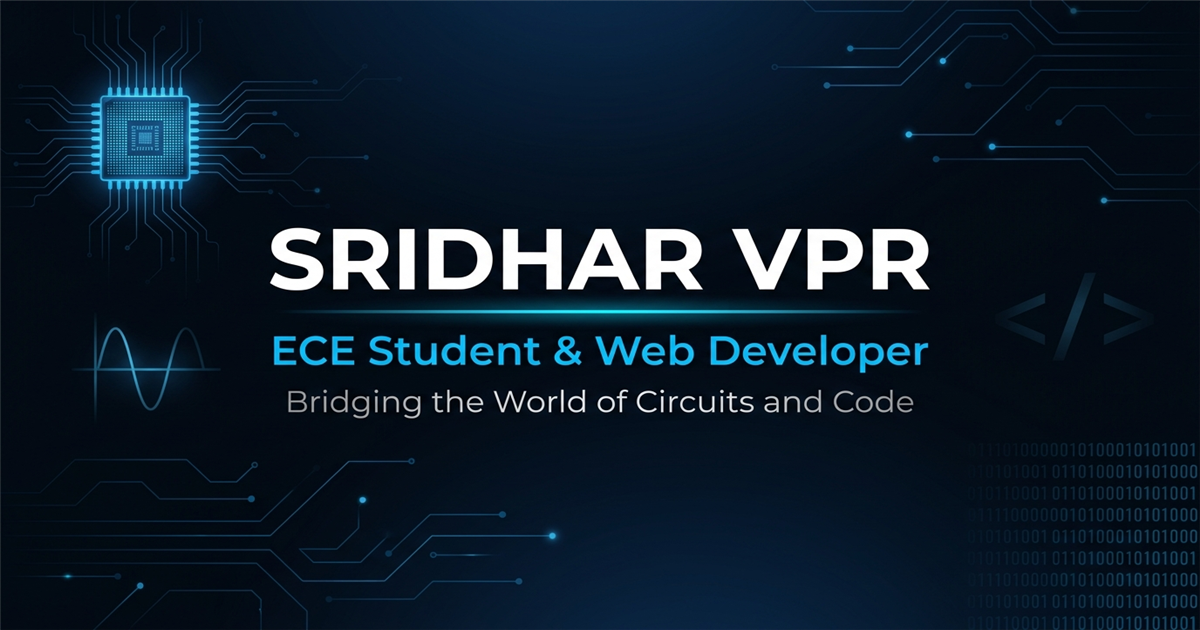
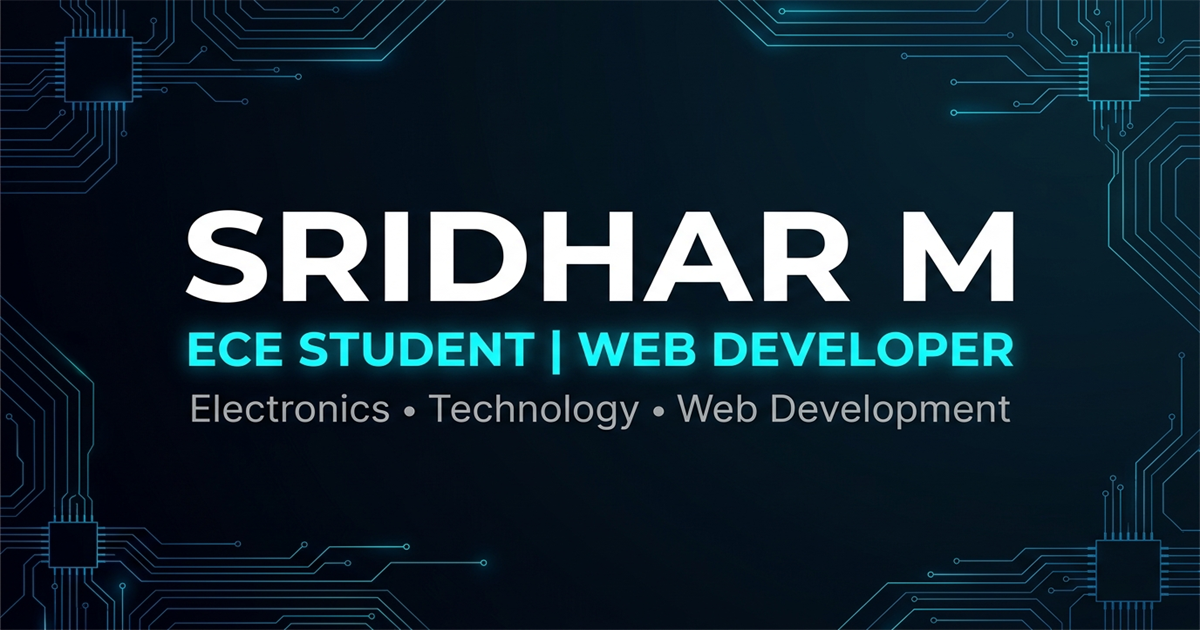
seo update

diff --git a/index.html b/index.html
@@ -5,37 +5,37 @@
     <meta name="viewport" content="width=device-width, initial-scale=1.0" />
 
     <!-- Primary Meta -->
-    <title>Beyond the Circuit — Sridhar | ECE & Full-Stack Developer</title>
-    <meta name="description" content="Electronics and Communication Engineering student building real products — from Verilog RTL designs to full-stack web applications. Bridging the world of circuits and code." />
-    <meta name="keywords" content="ECE, electronics engineering, full-stack developer, Verilog, React, TypeScript, web development, VLSI, embedded systems, IoT, portfolio, Tamil Nadu" />
-    <meta name="author" content="Sridhar" />
+    <title>SRIDHAR M | ECE Student &amp; Web Developer</title>
+    <meta name="description" content="Explore the portfolio of Sridhar M, an Electronics and Communication Engineering student and web developer passionate about technology and digital experiences." />
+    <meta name="keywords" content="ECE, electronics engineering, full-stack developer, Verilog, React, TypeScript, web development, VLSI, embedded systems, IoT, portfolio, Tamil Nadu, Sridhar M" />
+    <meta name="author" content="Sridhar M" />
     <meta name="robots" content="index, follow" />
     <meta name="theme-color" content="#080A0F" />
-    <link rel="canonical" href="https://portfolio-4b2u.onrender.com/" />
+    <link rel="canonical" href="https://sridharvpr7.github.io/Portfolio/" />
 
     <!-- Open Graph -->
     <meta property="og:type" content="website" />
-    <meta property="og:site_name" content="Beyond the Circuit" />
-    <meta property="og:title" content="Beyond the Circuit — Sridhar | ECE & Full-Stack Developer" />
-    <meta property="og:description" content="Bridging the world of circuits and code — ECE student and full-stack developer building real products from signal to software." />
-    <meta property="og:image" content="https://portfolio-4b2u.onrender.com/assets/profile/og-image.png" />
-    <meta property="og:image:secure_url" content="https://portfolio-4b2u.onrender.com/assets/profile/og-image.png" />
+    <meta property="og:site_name" content="Beyond the Circuit — Sridhar M" />
+    <meta property="og:title" content="SRIDHAR M | ECE Student &amp; Web Developer" />
+    <meta property="og:description" content="Explore the portfolio of Sridhar M, an Electronics and Communication Engineering student and web developer passionate about technology and digital experiences." />
+    <meta property="og:url" content="https://sridharvpr7.github.io/Portfolio/" />
+    <meta property="og:image" content="https://sridharvpr7.github.io/Portfolio/og-image.png" />
+    <meta property="og:image:secure_url" content="https://sridharvpr7.github.io/Portfolio/og-image.png" />
     <meta property="og:image:type" content="image/png" />
     <meta property="og:image:width" content="1200" />
     <meta property="og:image:height" content="630" />
-    <meta property="og:image:alt" content="Sridhar VPR — ECE Student and Full-Stack Developer" />
-    <meta property="og:url" content="https://portfolio-4b2u.onrender.com/" />
+    <meta property="og:image:alt" content="Sridhar M – ECE Student and Web Developer Portfolio" />
     <meta property="og:locale" content="en_IN" />
 
     <!-- Twitter Card -->
     <meta name="twitter:card" content="summary_large_image" />
-    <meta name="twitter:title" content="Beyond the Circuit — Sridhar" />
-    <meta name="twitter:description" content="ECE student & full-stack developer. Circuits to code." />
-    <meta name="twitter:image" content="https://portfolio-4b2u.onrender.com/assets/profile/og-image.png" />
-    <meta name="twitter:image:alt" content="Sridhar VPR portfolio banner" />
+    <meta name="twitter:title" content="SRIDHAR M | ECE Student &amp; Web Developer" />
+    <meta name="twitter:description" content="Explore the portfolio of Sridhar M, an Electronics and Communication Engineering student and web developer passionate about technology and digital experiences." />
+    <meta name="twitter:image" content="https://sridharvpr7.github.io/Portfolio/og-image.png" />
+    <meta name="twitter:image:alt" content="Sridhar M – ECE Student and Web Developer Portfolio" />
 
     <!-- Favicon -->
-    <link rel="icon" type="image/svg+xml" href="/favicon.svg" />
+    <link rel="icon" type="image/svg+xml" href="./favicon.svg" />
 
     <!-- Preconnect + load Google Fonts here -->
     <link rel="preconnect" href="https://fonts.googleapis.com" />

diff --git a/src/components/ShareButton.tsx b/src/components/ShareButton.tsx
@@ -3,9 +3,9 @@ import { Share2, Copy, Check, X } from 'lucide-react';
 import './ShareButton.css';
 
 // ── Constants ──────────────────────────────────────────────────────────────
-const PORTFOLIO_URL  = 'https://portfolio-4b2u.onrender.com/';
-const SHARE_TITLE    = 'Beyond the Circuit — Sridhar VPR';
-const SHARE_TEXT     = 'Explore my portfolio — ECE, VLSI, Embedded Systems and Full-Stack Web Development.';
+const PORTFOLIO_URL  = 'https://sridharvpr7.github.io/Portfolio/';
+const SHARE_TITLE    = 'SRIDHAR M | ECE Student & Web Developer';
+const SHARE_TEXT     = 'Explore the portfolio of Sridhar M, an Electronics and Communication Engineering student and web developer passionate about technology and digital experiences.';
 const SHARE_TEXT_ENC = encodeURIComponent(SHARE_TEXT + ' ' + PORTFOLIO_URL);
 const SHARE_URL_ENC  = encodeURIComponent(PORTFOLIO_URL);
 

diff --git a/src/App.tsx b/src/App.tsx
@@ -85,7 +85,7 @@ function App() {
   }>({ enabled: false });
 
   useEffect(() => {
-    fetch('/data/notifications.json', { signal: AbortSignal.timeout(3000) })
+    fetch(`${import.meta.env.BASE_URL || './'}data/notifications.json`, { signal: AbortSignal.timeout(3000) })
       .then(r => r.json())
       .then(cfg => setNotificationsConfig(cfg))
       .catch(() => {}); // fail silently

diff --git a/src/services/contentLoader.ts b/src/services/contentLoader.ts
@@ -180,7 +180,7 @@ export interface AnimationsConfig {
 
 // ── Loader functions ──────────────────────────────────────
 
-const BASE = '/data';
+const BASE = `${import.meta.env.BASE_URL || './'}data`;
 
 export const loadSiteConfig = () =>
   loadJSON<SiteConfig>(`${BASE}/site.json`, {

diff --git a/vite.config.ts b/vite.config.ts
@@ -3,6 +3,7 @@ import { defineConfig } from 'vite'
 
 // https://vite.dev/config/
 export default defineConfig({
+  base: './',
   plugins: [react()],
   build: {
     // Raise threshold slightly — Firebase modular imports are tree-shaken;
